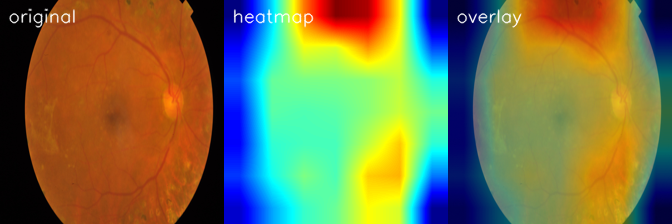
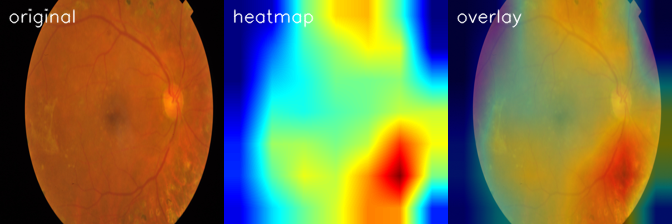
added results section with metrics and confusion matrix

diff --git a/README.md b/README.md
@@ -32,6 +32,23 @@ looking.
 *Original | Grad-CAM heatmap | overlay — the model attending to lesions on a
 Proliferative DR case.*
 
+## Results
+
+EfficientNet-B0, 20 epochs, class-weighted loss, on the APTOS 2019 validation
+split (733 images, best epoch):
+
+| metric      | value |
+| ----------- | ----- |
+| accuracy    | 0.813 |
+| macro F1    | 0.673 |
+| weighted F1 | 0.814 |
+
+![Confusion matrix](docs/confusion_matrix.png)
+
+Per-class F1 runs from 0.97 (No DR) down to ~0.52 for the rarer Severe /
+Proliferative grades — the usual APTOS class imbalance. Reproduce with
+`python ml/evaluate.py`.
+
 ## Structure
 
 ```text